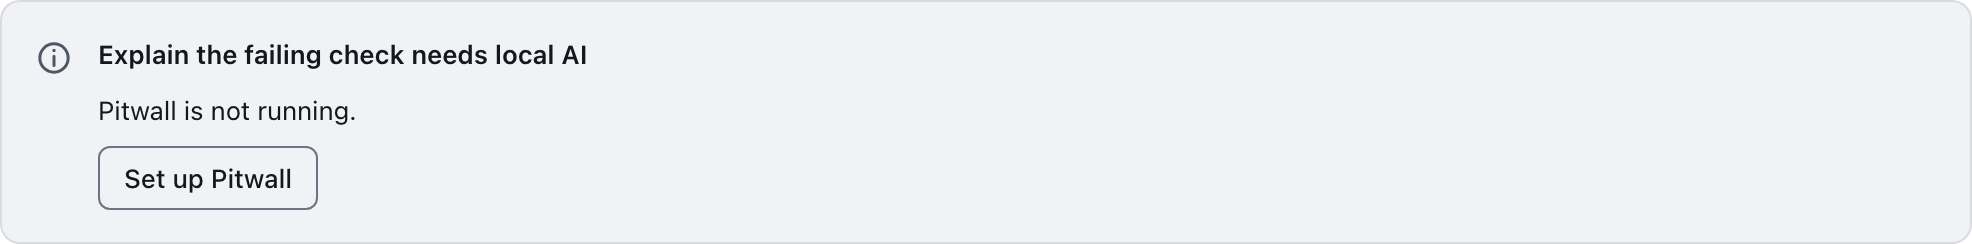
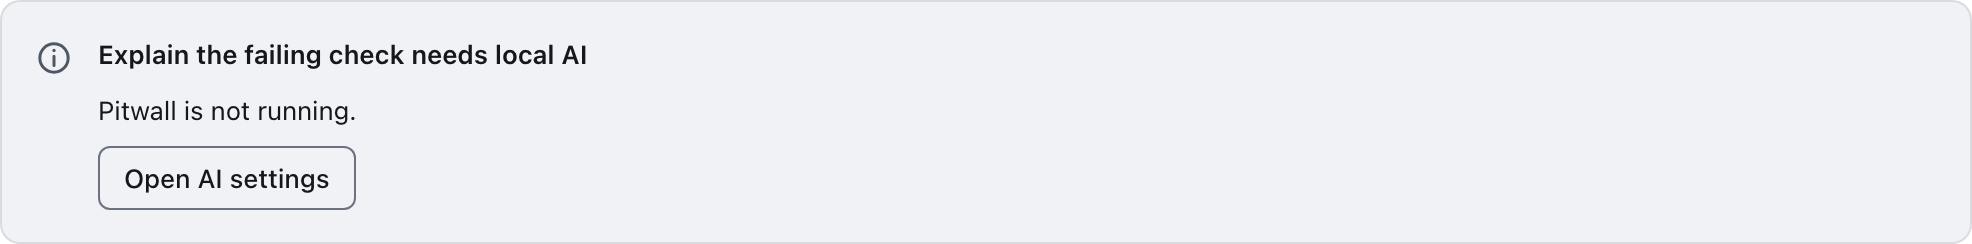
fix(view): a needsAi node never routes the plugin's setup action; the app's Open AI settings is its only action (rule 19)

Changed region(s): [[0.0619, 0.6885, 0.1856, 0.8033], [0.1547, 0.832, 0.1856, 0.8607], [0.1547, 0.6025, 0.1856, 0.6311]]

diff --git a/ui/projects/paddock-ui/view/src/review1.spec.ts b/ui/projects/paddock-ui/view/src/review1.spec.ts
@@ -4,7 +4,7 @@ import { PD_ECHARTS, fakeEchartsLoader } from '@decryp7/paddock-ui/chart';
 import { FakeECharts, all, buttonByText, one, text } from '@decryp7/paddock-ui/testing';
 import { afterEach, describe, expect, it, vi } from 'vitest';
 import type { Node, NodeKind, ViewAction, ViewDoc } from '../generated/view';
-import { VIEW_HOST, VIEW_NEEDS_AI, type ViewHost, type ViewPicked } from './host';
+import { VIEW_HOST, VIEW_NEEDS_AI, VIEW_OPEN_AI_SETTINGS, type ViewHost, type ViewPicked } from './host';
 import { primaryNode, unknownKindName } from './model';
 import { sampleViewDoc } from './sample';
 import { PdViewScroll } from './scroll';
@@ -96,13 +96,33 @@ describe('pd-view review 1 fixes', () => {
   });
 
   describe('P1-3: one "needs local AI" look and a repair the app owns', () => {
-    it('draws the family card with the plugin reason when the host has no Pitwall state', async () => {
+    it('draws the family card with the plugin reason and no button when the host has neither Pitwall state nor a settings opener', async () => {
       const f = await setup();
       const card = one(node(f, 'ai'), '[data-testid=view-needs-ai]');
       expect(text(card)).toContain('Explain the failing check needs local AI');
       expect(text(card)).toContain('Pitwall is not running.');
       expect(card.closest('pd-needs-ai-card')).not.toBeNull();
       expect(card.getAttribute('aria-labelledby')).toBeTruthy();
+      expect(card.querySelector('button')).toBeNull();
+      expect(text(one(card, '[data-testid=needs-ai-on-builtin]'))).toContain('up to the app');
+      expect(text(card)).not.toContain('Set up Pitwall');
+    });
+    it('offers only the app\'s Open AI settings when the host provides it, and never sends the plugin\'s setup action', async () => {
+      const open = vi.fn();
+      const f = await setup(sampleViewDoc(), [{ provide: VIEW_OPEN_AI_SETTINGS, useValue: open }]);
+      const card = one(node(f, 'ai'), '[data-testid=view-needs-ai]');
+      expect(all(card, 'button')).toHaveLength(1);
+      expect(card.querySelector('[data-testid=needs-ai-on-builtin]')).toBeNull();
+      one<HTMLButtonElement>(card, '[data-testid=view-needs-ai-settings]').click();
+      await settle(f);
+      expect(open).toHaveBeenCalledTimes(1);
+      expect(f.componentInstance.actions).toEqual([]);
+    });
+    it('disables the settings button while the host is busy', async () => {
+      const f = await setup(sampleViewDoc(), [{ provide: VIEW_OPEN_AI_SETTINGS, useValue: vi.fn() }]);
+      f.componentInstance.busy.set(true);
+      await settle(f);
+      expect(one<HTMLButtonElement>(node(f, 'ai'), '[data-testid=view-needs-ai-settings]').disabled).toBe(true);
     });
     it('draws the app\'s live component instead when the host provides one, ignoring the reason and the plugin action', async () => {
       const f = await setup(sampleViewDoc(), [{ provide: VIEW_NEEDS_AI, useValue: LiveNeedsAi }]);
@@ -175,8 +195,8 @@ describe('pd-view review 1 fixes', () => {
       expect(filter.classList.contains('pd-segmented')).toBe(true);
       expect(all(filter, 'button[aria-pressed=true]')).toHaveLength(1);
     });
-    it('gives the primary to the empty state, then to the needs-AI setup, as the earlier ones leave', async () => {
-      const f = await setup(without(sampleViewDoc(), 'form'));
+    it('gives the primary to the empty state, then to the needs-AI settings button, as the earlier ones leave', async () => {
+      const f = await setup(without(sampleViewDoc(), 'form'), [{ provide: VIEW_OPEN_AI_SETTINGS, useValue: vi.fn() }]);
       expect(all(el(f), '.pd-btn--primary').map((b) => b.closest('[data-node-id]')?.getAttribute('data-node-id'))).toEqual(['empty']);
       f.componentInstance.doc.set(without(sampleViewDoc(), 'form', 'empty'));
       await settle(f);

diff --git a/ui/projects/paddock-ui/view/src/node.ts b/ui/projects/paddock-ui/view/src/node.ts
@@ -6,7 +6,7 @@ import type { Node } from '../generated/view';
 import { PdViewButton, PdViewLink } from './button';
 import { PdViewChart } from './chart';
 import { PdViewForm } from './form';
-import { VIEW_NEEDS_AI } from './host';
+import { VIEW_NEEDS_AI, VIEW_OPEN_AI_SETTINGS } from './host';
 import { diagramScene, graphScene, PdViewScene } from './scene';
 import { childKey, glyphFor, shapeOf, toneOf, unknownKindName } from './model';
 import { PdViewMatrix } from './matrix';
@@ -95,8 +95,10 @@ import { PdViewTree } from './tree';
         @if (appNeedsAi; as live) {
           <ng-container *ngComponentOutlet="live; inputs: { feature: s.v.feature }" />
         } @else {
-          <pd-needs-ai-card [title]="needsAiTitle(s.v.feature)" [message]="s.v.reason || needsAiDefault" icon="info" testid="view-needs-ai">
-            <pd-view-button [action]="s.v.setup" [variant]="isPrimary() ? 'primary' : 'default'" />
+          <pd-needs-ai-card [title]="needsAiTitle(s.v.feature)" [message]="s.v.reason || needsAiDefault" icon="info" testid="view-needs-ai" [hint]="openAiSettings ? '' : needsAiElsewhere">
+            @if (openAiSettings; as open) {
+              <button type="button" class="pd-btn" [class.pd-btn--primary]="isPrimary()" data-testid="view-needs-ai-settings" [disabled]="runtime.disabled()" (click)="open()">{{ needsAiSettings }}</button>
+            }
           </pd-needs-ai-card>
         }
       }
@@ -143,7 +145,7 @@ import { PdViewTree } from './tree';
 })
 export class PdViewNode {
   readonly node = input.required<Node>();
-  private readonly runtime = inject(ViewRuntime);
+  protected readonly runtime = inject(ViewRuntime);
   /** The view's title: the accessible name of the table, tree, list and drawing nodes. */
   protected readonly title = this.runtime.title;
   protected readonly shape = computed(() => shapeOf(this.node()));
@@ -156,6 +158,10 @@ export class PdViewNode {
   protected readonly progressName = $localize`:@@pd.view.progress:Progress`;
   /** The app's own live "needs local AI" component (it has the window's Pitwall state), or null. */
   protected readonly appNeedsAi = inject(VIEW_NEEDS_AI);
+  /** The app's "Open AI settings", or null (the card then says where to look is up to the app). The plugin's `setup` is never sent. */
+  protected readonly openAiSettings = inject(VIEW_OPEN_AI_SETTINGS);
+  protected readonly needsAiSettings = $localize`:@@pd.view.needs-ai.settings:Open AI settings`;
+  protected readonly needsAiElsewhere = $localize`:@@pd.view.needs-ai.elsewhere:Where to set up local AI is up to the app; look in its settings.`;
   protected readonly needsAiDefault = $localize`:@@pd.view.needs-ai:This needs local AI, which is not ready.`;
   protected readonly updateApp = $localize`:@@pd.view.unknown:Update the app to view this`;
   private static next = 0;

diff --git a/ui/projects/gallery/src/app/view-section.ts b/ui/projects/gallery/src/app/view-section.ts
@@ -1,5 +1,5 @@
 import { ChangeDetectionStrategy, Component, inject, Injectable, signal, viewChild } from '@angular/core';
-import { PdView, PdViewWrites, VIEW_HOST, sampleViewDoc, type GrantRef, type SecretRef, type ViewAction, type ViewConfirmRequest, type ViewHost, type ViewOpenRequest, type ViewPicked, type ViewPickRequest } from '@decryp7/paddock-ui/view';
+import { PdView, PdViewWrites, VIEW_HOST, VIEW_OPEN_AI_SETTINGS, sampleViewDoc, type GrantRef, type SecretRef, type ViewAction, type ViewConfirmRequest, type ViewHost, type ViewOpenRequest, type ViewPicked, type ViewPickRequest } from '@decryp7/paddock-ui/view';
 
 interface Asking {
   readonly text: string;
@@ -16,6 +16,8 @@ interface Asking {
 export class GalViewHost implements ViewHost {
   readonly asking = signal<Asking | null>(null);
   readonly opened = signal<string[]>([]);
+  /** How many times the sample app's "Open AI settings" was chosen. */
+  readonly aiSettings = signal(0);
 
   private ask(text: string, yes: string, writes = false): Promise<boolean> {
     return new Promise((resolve) => this.asking.set({ text, yes, writes, resolve: (ok) => (this.asking.set(null), resolve(ok)) }));
@@ -39,7 +41,11 @@ export class GalViewHost implements ViewHost {
   selector: 'gal-view',
   changeDetection: ChangeDetectionStrategy.OnPush,
   imports: [PdView, PdViewWrites],
-  providers: [GalViewHost, { provide: VIEW_HOST, useExisting: GalViewHost }],
+  providers: [
+    GalViewHost,
+    { provide: VIEW_HOST, useExisting: GalViewHost },
+    { provide: VIEW_OPEN_AI_SETTINGS, useFactory: () => { const h = inject(GalViewHost); return () => h.aiSettings.update((n) => n + 1); } },
+  ],
   template: `
     <section class="gal-section" data-testid="view" aria-labelledby="h-view">
       <h2 id="h-view">Declarative view</h2>
@@ -61,7 +67,7 @@ export class GalViewHost implements ViewHost {
           </div>
         </div>
       }
-      <p data-testid="view-log" aria-live="polite">Last action: {{ last() }}. Opened: {{ host.opened().length ? host.opened().join(', ') : 'nothing' }}.</p>
+      <p data-testid="view-log" aria-live="polite">Last action: {{ last() }}. Opened: {{ host.opened().length ? host.opened().join(', ') : 'nothing' }}. AI settings opened: {{ host.aiSettings() }}.</p>
       <div class="gal-box gal-pad" data-testid="view-box">
         @for (key of [mounted()]; track key) {
           <pd-view view="gallery.release" plugin="Release checks" logsLink [doc]="doc()" [loading]="loading()" [busy]="host.asking() !== null || working()" (action)="record($event)" (retry)="reload()" />

diff --git a/ui/projects/paddock-ui/view/public-api.ts b/ui/projects/paddock-ui/view/public-api.ts
@@ -5,7 +5,8 @@
  * review list, matrix, chart, badge, progress, empty, needs-AI, link), binds all text as text and maps tones to the design
  * tokens. What the user does leaves as a `ViewAction`; the host answers with a patch. Confirmations, the OS browser and the path and
  * secret pickers are the host's (`VIEW_HOST`); the view opens nothing itself. An app that has the window's Pitwall state gives a
- * `needsAi` node its own live component with `VIEW_NEEDS_AI`.
+ * `needsAi` node its own live component with `VIEW_NEEDS_AI`; without it the node shows the plugin's reason and the app's
+ * `VIEW_OPEN_AI_SETTINGS` button (never the plugin's own `setup` action, rule 19).
  *
  * ```ts
  * providers: [{ provide: VIEW_HOST, useValue: myHost }]              // confirm, openInBrowser, pickPath, pickSecret
@@ -28,7 +29,7 @@ export { PdViewChart, chartSpecOf, chartWords, scatterOption } from './src/chart
 export { PdViewTone, TONE_CSS, toneClass } from './src/tone';
 export { ViewStore, type ViewFailure, type ViewStoreType } from './src/view.store';
 export { ViewRuntime, type ViewRuntimeContext } from './src/runtime';
-export { NO_VIEW_HOST, VIEW_HOST, VIEW_NEEDS_AI, type ViewConfirmRequest, type ViewHost, type ViewOpenRequest, type ViewPickRequest, type ViewPicked } from './src/host';
+export { NO_VIEW_HOST, VIEW_HOST, VIEW_NEEDS_AI, VIEW_OPEN_AI_SETTINGS, type ViewConfirmRequest, type ViewHost, type ViewOpenRequest, type ViewPickRequest, type ViewPicked } from './src/host';
 export { applyViewPatch, type PatchProblem, type PatchResult } from './src/patch';
 export { VIEW_EXTRA_LIMITS, isWebUrl, validateViewAction, validateViewDoc, type ViewIssue } from './src/limits';
 export { sampleViewDoc } from './src/sample';

diff --git a/ui/projects/paddock-ui/view/src/host.ts b/ui/projects/paddock-ui/view/src/host.ts
@@ -70,7 +70,15 @@ export const VIEW_HOST = new InjectionToken<ViewHost>('PADDOCK_VIEW_HOST', { pro
 
 /**
  * The app's own "needs local AI" component, when it has the window's Pitwall state (a wrapper over `<pd-needs-ai>` with a `feature`
- * input, which handles its own `(step)`). A `needsAi` node draws it instead of the plugin's reason and action, so the repair is the
+ * input, which handles its own `(step)`). A `needsAi` node draws it instead of the plugin's reason, so the repair is the
  * app's (rule 19) and the state is the one the rest of the window shows. `null` (the default): the node draws the plugin's reason.
  */
 export const VIEW_NEEDS_AI = new InjectionToken<Type<unknown> | null>('PADDOCK_VIEW_NEEDS_AI', { providedIn: 'root', factory: () => null });
+
+/**
+ * The app's "Open AI settings" (rule 19): what the plugin-less fallback card of a `needsAi` node offers as its only action when the
+ * host has no Pitwall state (no {@link VIEW_NEEDS_AI}). It is the app's own repair, never routed through the plugin: the plugin's
+ * `setup` action of a `needsAi` node is not sent to it. `null` (the default): the card shows the plugin's reason and a plain line
+ * that where to set up local AI is up to the app, with no button.
+ */
+export const VIEW_OPEN_AI_SETTINGS = new InjectionToken<(() => void) | null>('PADDOCK_VIEW_OPEN_AI_SETTINGS', { providedIn: 'root', factory: () => null });

diff --git a/ui/e2e/view.spec.ts b/ui/e2e/view.spec.ts
@@ -36,6 +36,17 @@ test('draws a node of every kind and one "update the app" for the unknown one', 
   await expect(box.getByTestId('view-unknown')).toContainText('Update the app to view this');
 });
 
+test('needs local AI: the only action is the app\'s Open AI settings, the plugin\'s setup is never sent', async ({ page }) => {
+  const box = await open(page);
+  const card = box.getByTestId('view-needs-ai');
+  await expect(card).toContainText('Pitwall is not running.');
+  await expect(card.getByRole('button')).toHaveCount(1);
+  await expect(card).not.toContainText('Set up Pitwall');
+  await card.getByRole('button', { name: 'Open AI settings' }).click();
+  await expect(log(page)).toContainText('AI settings opened: 1');
+  await expect(log(page)).not.toContainText('setup-ai');
+});
+
 test('table: sort and paging send their actions with the host keys', async ({ page }) => {
   const box = await open(page);
   await box.locator('[data-node-id="t1"]').getByRole('button', { name: 'Sort by State, ascending' }).click();

diff --git a/ui/e2e/contact-sheet-x51.spec.ts b/ui/e2e/contact-sheet-x51.spec.ts
@@ -111,7 +111,7 @@ test.describe('contact sheet: pd-view', () => {
       await s('form', 'Form: every field kind, help under the control, "Changes data" on Publish, the one filled button of the view', 'form', node('form'));
       await s('form', 'Review list: segmented filter, labelled states, actions', 'review', node('review'));
       await s('states', 'Empty state: 32 px muted icon, the action is secondary because the form holds the primary', 'empty', node('empty'));
-      await s('states', "Needs local AI: the family card with the plugin's reason, secondary action", 'needs-ai', node('ai'));
+      await s('states', "Needs local AI: the family card with the plugin's reason and the app's Open AI settings (the plugin's own action is not drawn)", 'needs-ai', node('ai'));
       await s('states', 'Unknown kind: only that node says "Update the app to view this", the kind in a muted suffix', 'unknown', node('future'));
     });
 

diff --git a/ui/projects/paddock-ui/view/src/view.spec.ts b/ui/projects/paddock-ui/view/src/view.spec.ts
@@ -385,14 +385,13 @@ describe('pd-view', () => {
       expect(text(one(el(f), '[data-testid=view-notice]'))).toBe('No browser.');
     });
 
-    it('sends the needs-AI setup action and the empty action', async () => {
+    it('shows the needs-AI reason without routing the plugin\'s setup action', async () => {
       const f = await setup();
       const ai = one(el(f), '[data-testid=view-needs-ai]');
       expect(text(ai)).toContain('Explain the failing check');
       expect(text(ai)).toContain('Pitwall is not running.');
-      buttonByText(ai, 'Set up Pitwall').click();
-      await settle(f);
-      expect(last(f).action).toBe('setup-ai');
+      expect(ai.querySelector('button')).toBeNull();
+      expect(f.componentInstance.actions.map((a) => a.action)).not.toContain('setup-ai');
     });
 
     it('says why in the needs-AI state when the plugin gave no reason', async () => {

diff --git a/crates/paddock-view/src/model.rs b/crates/paddock-view/src/model.rs
@@ -630,7 +630,9 @@ pub struct NeedsAi {
     pub feature: String,
     /// Why it cannot run now; may be empty.
     pub reason: String,
-    /// The way forward ("Set up Pitwall").
+    /// The plugin's own wording of a way forward ("Set up Pitwall"). The host does NOT send it to the plugin (rule 19: a repair never
+    /// depends on the thing that is broken): the host shows the reason and its own "Open AI settings", so this is kept only for the
+    /// wire shape.
     pub setup: ActionRef,
 }
 

diff --git a/ui/README.md b/ui/README.md
@@ -137,7 +137,7 @@ so a manager app never bundles the workbench:
 | `/shell/settings/window` | the Settings window, loaded only by it: `pd-settings-window`, `pd-settings-section`, `pd-setting-field`, `SettingsDrafts` (Signal Forms), `settingsWindowProviders` | S10, S16 |
 | `/table`, `/chart`, `/forms` | `pd-table` (sort, filter, columns, groups, virtual scroll, row keyboard and menus, hover actions); `pd-chart` over lazy ECharts with the family theme and the generic chart kinds; `pd-field` and the validation display for Signal Forms | X21 |
 | `/states` | `pd-needs-ai-card`, the one presentational look of "needs local AI" (`pd-needs-ai` and `<pd-view>` fill it) | X51 |
-| `/view` | `<pd-view>` (ADR 0002): the renderer of the `paddock-view` documents plugins return; every node kind, limits validated on receipt (`validateViewDoc`), patches (`ViewStore`, `applyViewPatch`), actions as `ViewAction`, the host's `VIEW_HOST` for confirmations, the OS browser and the path and secret pickers; `sampleViewDoc` for demos and specs. Graph and diagram layouts are layered (radial for a radial graph, lifelines for a sequence diagram); a scatter chart needs ECharts' `ScatterChart` in a tree-shaken loader | X51 |
+| `/view` | `<pd-view>` (ADR 0002): the renderer of the `paddock-view` documents plugins return; every node kind, limits validated on receipt (`validateViewDoc`), patches (`ViewStore`, `applyViewPatch`), actions as `ViewAction`, the host's `VIEW_HOST` for confirmations, the OS browser and the path and secret pickers;  `VIEW_NEEDS_AI` (the app's live Pitwall component for a `needsAi` node) or the plugin's reason with only the app's `VIEW_OPEN_AI_SETTINGS` button (the plugin's `setup` action is never sent, rule 19); `sampleViewDoc` for demos and specs. Graph and diagram layouts are layered (radial for a radial graph, lifelines for a sequence diagram); a scatter chart needs ECharts' `ScatterChart` in a tree-shaken loader | X51 |
 | `/icons`, `/format`, `/prefs`, `/select`, `/testing`, `/shell/feel` | the `pd:` icon set and `outlineIcon`; one formatting API and the middle ellipsis; guarded localStorage; the themed `pd-select`; the DOM test kit (`installTestKit`, helpers, fake ECharts); the native-feel guard | X36, X35, X12, X38 |
 | `/ipc`, `/ipc/testing` | the app IPC kit: `CommandError` (generated from `paddock_commands::CommandError`) with `toCommandError`, `CommandFailure`; `withCallTimeout` for request/reply commands (never jobs, rule 12) and `callTimeoutProblems`; `provideBackend` (Tauri or a lazily imported mock); the mock kit `parseMockOptions` (`?mock=&latency=&fail=&hold=`), `formatMockOptions`, `withMockOptions` | X28 |
 | `/live` | the window side of the live feed: `withLiveFeed` (SignalStore feature over `paddock-live`: `live`, `liveSeq`, `liveLink`, `connectLive`, `resyncLive`), the pure `foldFrame` / `parseFrame`, `LIVE_TRANSPORT` with `tauriLiveTransport` and `MemoryLiveTransport`, the bounded lists `appendBounded`, `appendThrottled`, `upsertBy`, `prependUnique`, and `Debouncer`, `streamCall` / `tauriChannelFactory` (per-call streams) | X29 |

diff --git a/ui/docs/review/x51-view/FIXES.md b/ui/docs/review/x51-view/FIXES.md
@@ -8,7 +8,7 @@ both themes, 320 px), `paddock-view` unit tests.
 |---|---|---|
 | P1-1 | `layout.ts` `radialPlace`: the best-connected node is the hub in the middle, the others on rings by distance (another component one ring out), each ring wide enough and far enough that circumscribed circles cannot touch, nodes ordered by their neighbours' direction; the canvas is the bounding box plus padding | `layout.spec.ts` (hub and ring, fitted canvas, no overlap over seven graphs in both layouts and the sample's), `view.spec.ts` e2e P1-1 |
 | P1-2 | Status glyph in the box (the tone's own path from `pd:`), box wider by the mark; the status word in the `<title>`, the action's name and the list; the list adds captions and members | `review1.spec.ts` P1-2, e2e P1-2 |
-| P1-3 | `pd-needs-ai-card` in `@decryp7/paddock-ui/states`; `pd-needs-ai` (shell/pitwall) is a container over it; the node draws `VIEW_NEEDS_AI` (the app's live component, the repair stays the app's) or the card with the plugin's reason, titled "<feature> needs local AI" | `needs-ai-card.spec.ts`, `review1.spec.ts` P1-3, the unchanged Pitwall specs |
+| P1-3 | `pd-needs-ai-card` in `@decryp7/paddock-ui/states`; `pd-needs-ai` (shell/pitwall) is a container over it; the node draws `VIEW_NEEDS_AI` (the app's live component, the repair stays the app's) or the card with the plugin's reason, titled "<feature> needs local AI", whose only action is the app's `VIEW_OPEN_AI_SETTINGS` button (no button and a plain line when the host gives none); the plugin's `setup` ActionRef is never sent | `needs-ai-card.spec.ts`, `review1.spec.ts` P1-3, the unchanged Pitwall specs |
 | P2-1 | Badge and link nodes `flex: 0 1 auto`, progress `0 1 14rem`, blocks `1 1 14rem`; row gap 8 px; badge `vertical-align: top` | e2e P2-1 |
 | P2-2 | `overflow-wrap: break-word` everywhere (was `anywhere`); status cells, badges and button labels nowrap; the form's chosen text `flex: 1 1 8rem`; review grid items `min-width: 0`; long buttons wrap inside themselves | e2e P2-2, P2-12 |
 | P2-3 | heading = Subtitle, subheading = Body strong | e2e P2-2/3 |

diff --git a/CHANGELOG.md b/CHANGELOG.md
@@ -9,7 +9,8 @@ Conventional Commits; one semver tag for the whole repo.
   and the rest on rings that cannot touch, in a canvas fitted to the boxes (a test over every layout: no two boxes overlap); graph
   boxes carry a status glyph and the status word in their name and in "Show as a list", which also lists captions and members;
   `@decryp7/paddock-ui/states` has `pd-needs-ai-card`, `pd-needs-ai` is a container over it, and a `needsAi` node draws the app's own
-  component (`VIEW_NEEDS_AI`) or the same card with the plugin's reason; inline kinds pack in a row, words break only when they must,
+  component (`VIEW_NEEDS_AI`) or the same card with the plugin's reason and, only when the host provides `VIEW_OPEN_AI_SETTINGS`, the app's
+  "Open AI settings" (the plugin's own `setup` action of a `needsAi` node is never sent to the plugin, rule 19); inline kinds pack in a row, words break only when they must,
   headings sit under the view title, stale is a warning with Reload, loading is a skeleton and busy a visible status, one filled
   button per view, one `pd-view-writes` badge, tree status on the mark only, numbers right-aligned with their unit (`Column.align`,
   `Column.unit`, `ChartSpec.unit` in `paddock-view`), chosen paths and secrets shown by name (`ViewHost` pickers resolve `{ value,
